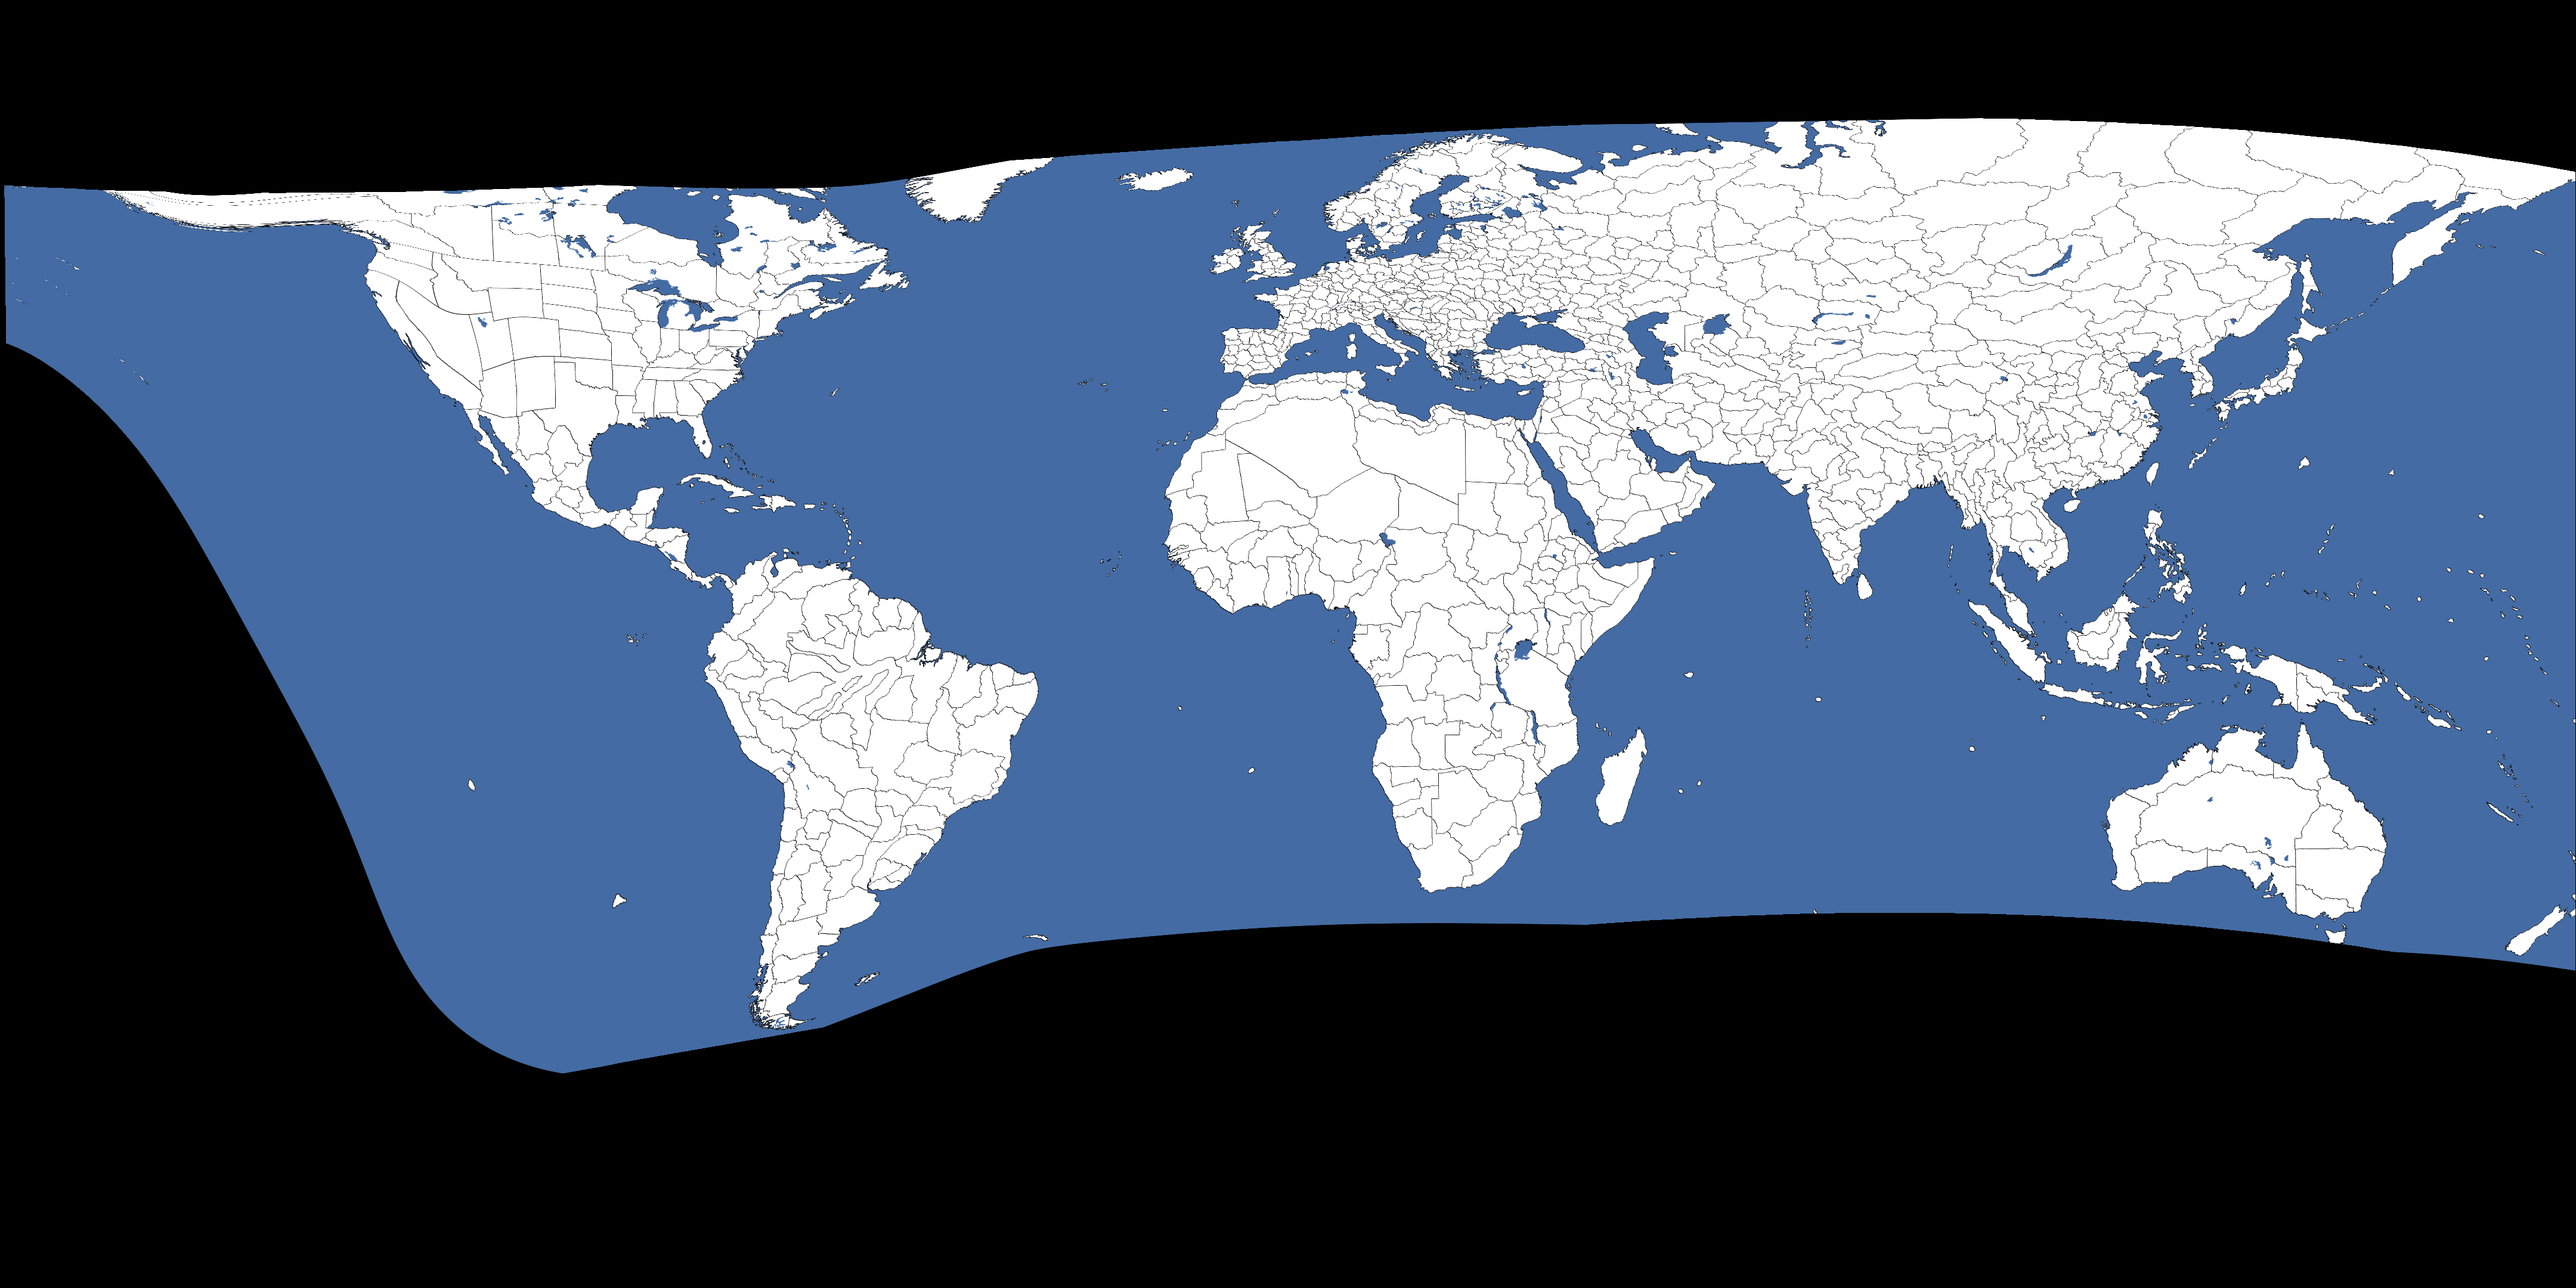
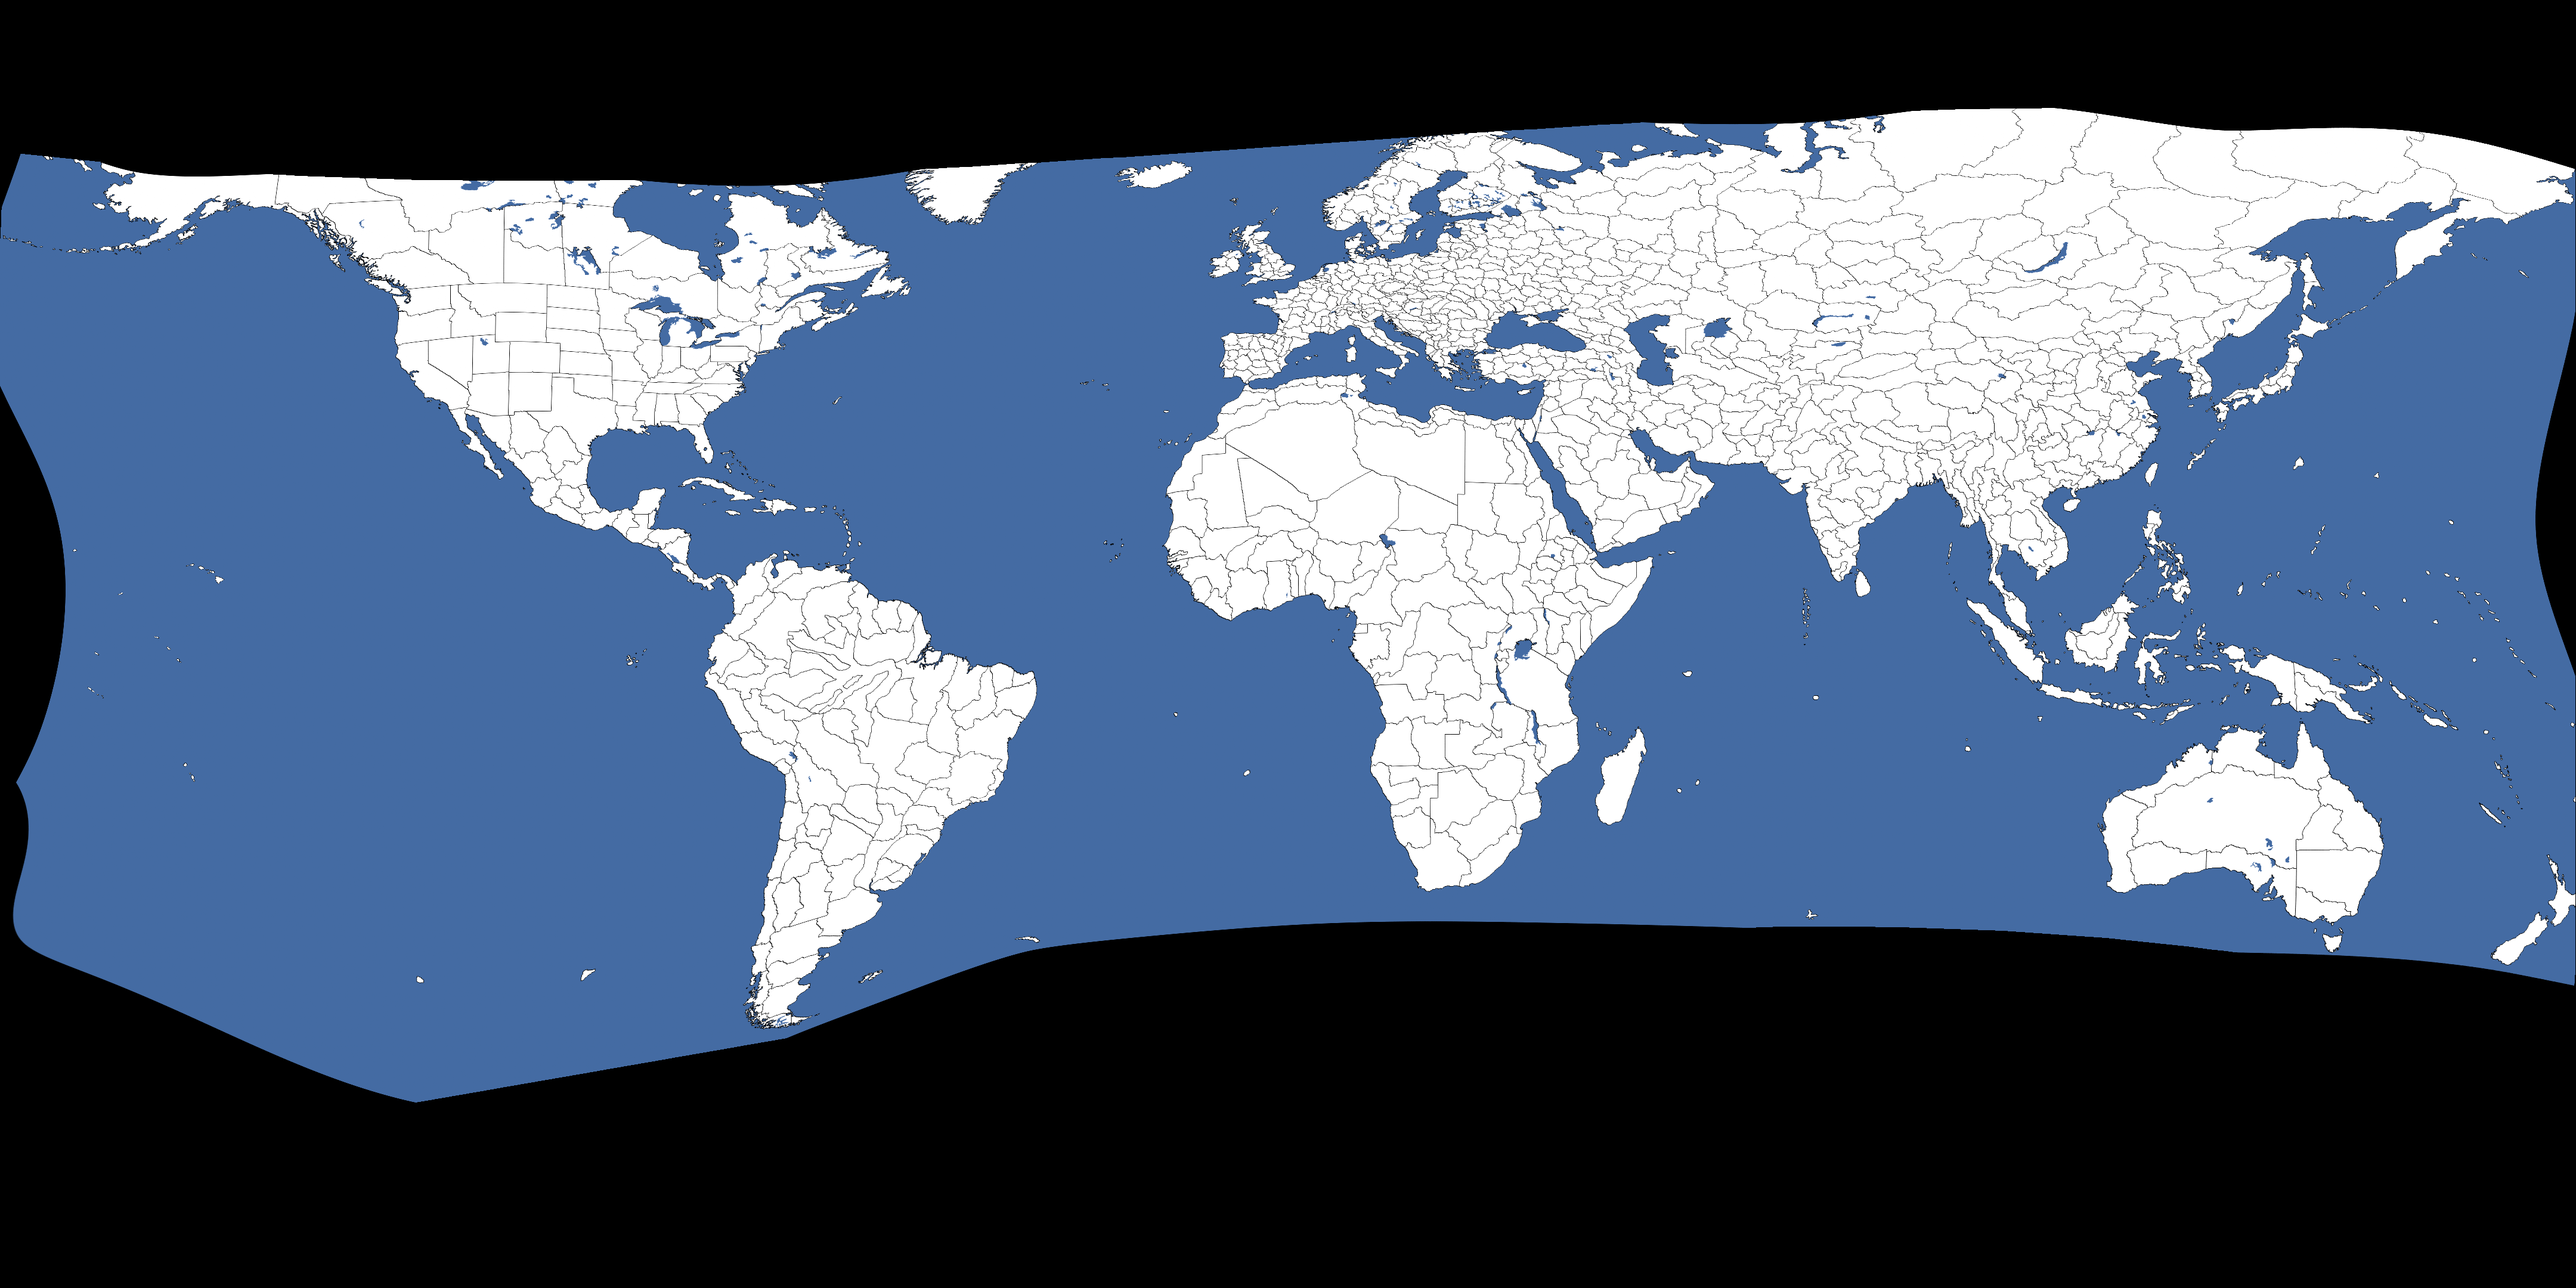
update deprojector prior to heuristic testing

diff --git a/deprojector_1.2/pipeline/C_mesh_warp.py b/deprojector_1.2/pipeline/C_mesh_warp.py
@@ -103,7 +103,8 @@ def apply_affine_to_points(pts: np.ndarray, src_pts: np.ndarray, ref_pts: np.nda
 
 def add_dynamic_points(
     error_map_np: np.ndarray, P_ref_np: np.ndarray, P_src_np: np.ndarray, 
-    current_grid_np: np.ndarray, n_points: int = 5, min_dist: int = 20
+    current_grid_np: np.ndarray, n_points: int = 5, min_dist: int = 20,
+    error_threshold: float = 0.05 # <--- NEW PARAMETER
 ) -> Tuple[np.ndarray, np.ndarray, np.ndarray]:
     """Finds high-error regions and inserts new control points there."""
     err = cv2.GaussianBlur(error_map_np.astype(np.float32), (9, 9), 0)
@@ -111,7 +112,9 @@ def add_dynamic_points(
     
     for _ in range(n_points):
         min_val, max_val, min_loc, max_loc = cv2.minMaxLoc(err)
-        if max_val < 0.05: 
+        
+        # Check against the exposed threshold
+        if max_val < error_threshold: 
             break
             
         dist = np.linalg.norm(P_ref_np - np.array(max_loc), axis=1)
@@ -125,7 +128,6 @@ def add_dynamic_points(
         
     new_refs_np = np.array(new_refs, dtype=np.float32) if new_refs else np.empty((0, 2), dtype=np.float32)
     if new_refs:
-        # Enforce float32 concatenation to prevent double upcasting
         P_ref_np = np.vstack([P_ref_np, new_refs]).astype(np.float32)
         P_src_np = np.vstack([P_src_np, new_srcs]).astype(np.float32)
         
@@ -334,11 +336,14 @@ def sgd_point_warp_polygon_constrained(
     src_img: np.ndarray,
     extent_result: ExtentResult,
     work_h_bbox: int = 384,
-    warp_mode: str = "affine", # 'affine' or 'tps'
+    warp_mode: str = "affine",
     levels: int = 4,
     steps_per_lvl: int = 350,
     lr_init: float = 2.0,
     lam_fold: float = 0.5,
+    dyn_points_per_level: int = 8,
+    dyn_error_threshold: float = 0.05,
+    dyn_min_dist: int = 15,
     show_plots: bool = True
 ) -> Tuple[np.ndarray, np.ndarray, dict, float]:
     
@@ -464,17 +469,22 @@ def sgd_point_warp_polygon_constrained(
                 w_mask = F.grid_sample(src_mask_t, n_grid, mode="bilinear", padding_mode="zeros", align_corners=True)
             show_mask_comparison_poly(w_mask, ref_bbox_sm, poly_mask_t, title=f"End of Level {lvl+1}")
 
+        # Add Dynamic Points if not the last level
         if lvl < levels - 1:
             with torch.no_grad():
                 error_map = (torch.abs(w_mask - ref_bbox_sm) * poly_mask_t)[0, 0].cpu().numpy()
                 
             old_len = len(P_ref_np)
             old_pts_for_plot = P_ref_np.copy()
-            P_ref_np, P_src_np, new_pts = add_dynamic_points(error_map, P_ref_np, P_src_np, final_grid.cpu().numpy(), n_points=8, min_dist=15)
-            print(f"     [Dynamic] Added {len(P_ref_np) - old_len} points in high-error regions.")
             
-            if show_plots:
-                show_dynamic_points_error(error_map, old_pts_for_plot, new_pts, lvl+1)
+            # Pass the exposed variables here!
+            P_ref_np, P_src_np, new_pts = add_dynamic_points(
+                error_map, P_ref_np, P_src_np, final_grid.cpu().numpy(), 
+                n_points=dyn_points_per_level, 
+                min_dist=dyn_min_dist, 
+                error_threshold=dyn_error_threshold
+            )
+            print(f"     [Dynamic] Added {len(P_ref_np) - old_len} points in high-error regions.")
 
     if show_plots:
         ref_crop_np = ref_img[by0:by1, bx0:bx1]

diff --git a/deprojector_1.2/app.py b/deprojector_1.2/app.py
@@ -68,10 +68,13 @@ def executePipeline():
             extent_result=result,
             work_h_bbox=384,
             warp_mode="tps",   # Toggle to "tps" if you want Thin Plate Spline!
-            levels=4,             # Number of coarse-to-fine dynamic point injection steps
-            steps_per_lvl=600,    # Steps for SGD to optimize the points per level
+            levels=5,             # Number of coarse-to-fine dynamic point injection steps
+            steps_per_lvl=1200,    # Steps for SGD to optimize the points per level
             lr_init=2.0,          # Initial learning rate for point movement
-            lam_fold=0.2          # Regularization weight to prevent mesh folding/artifacts
+            lam_fold=0.2,          # Regularization weight to prevent mesh folding/artifacts
+            dyn_points_per_level=24,          # Allow up to 12 points per level
+            dyn_error_threshold=0.03,         # Make it slightly more sensitive to small errors
+            dyn_min_dist=12,                  # Allow points to be slightly closer together
         )
     )
 
